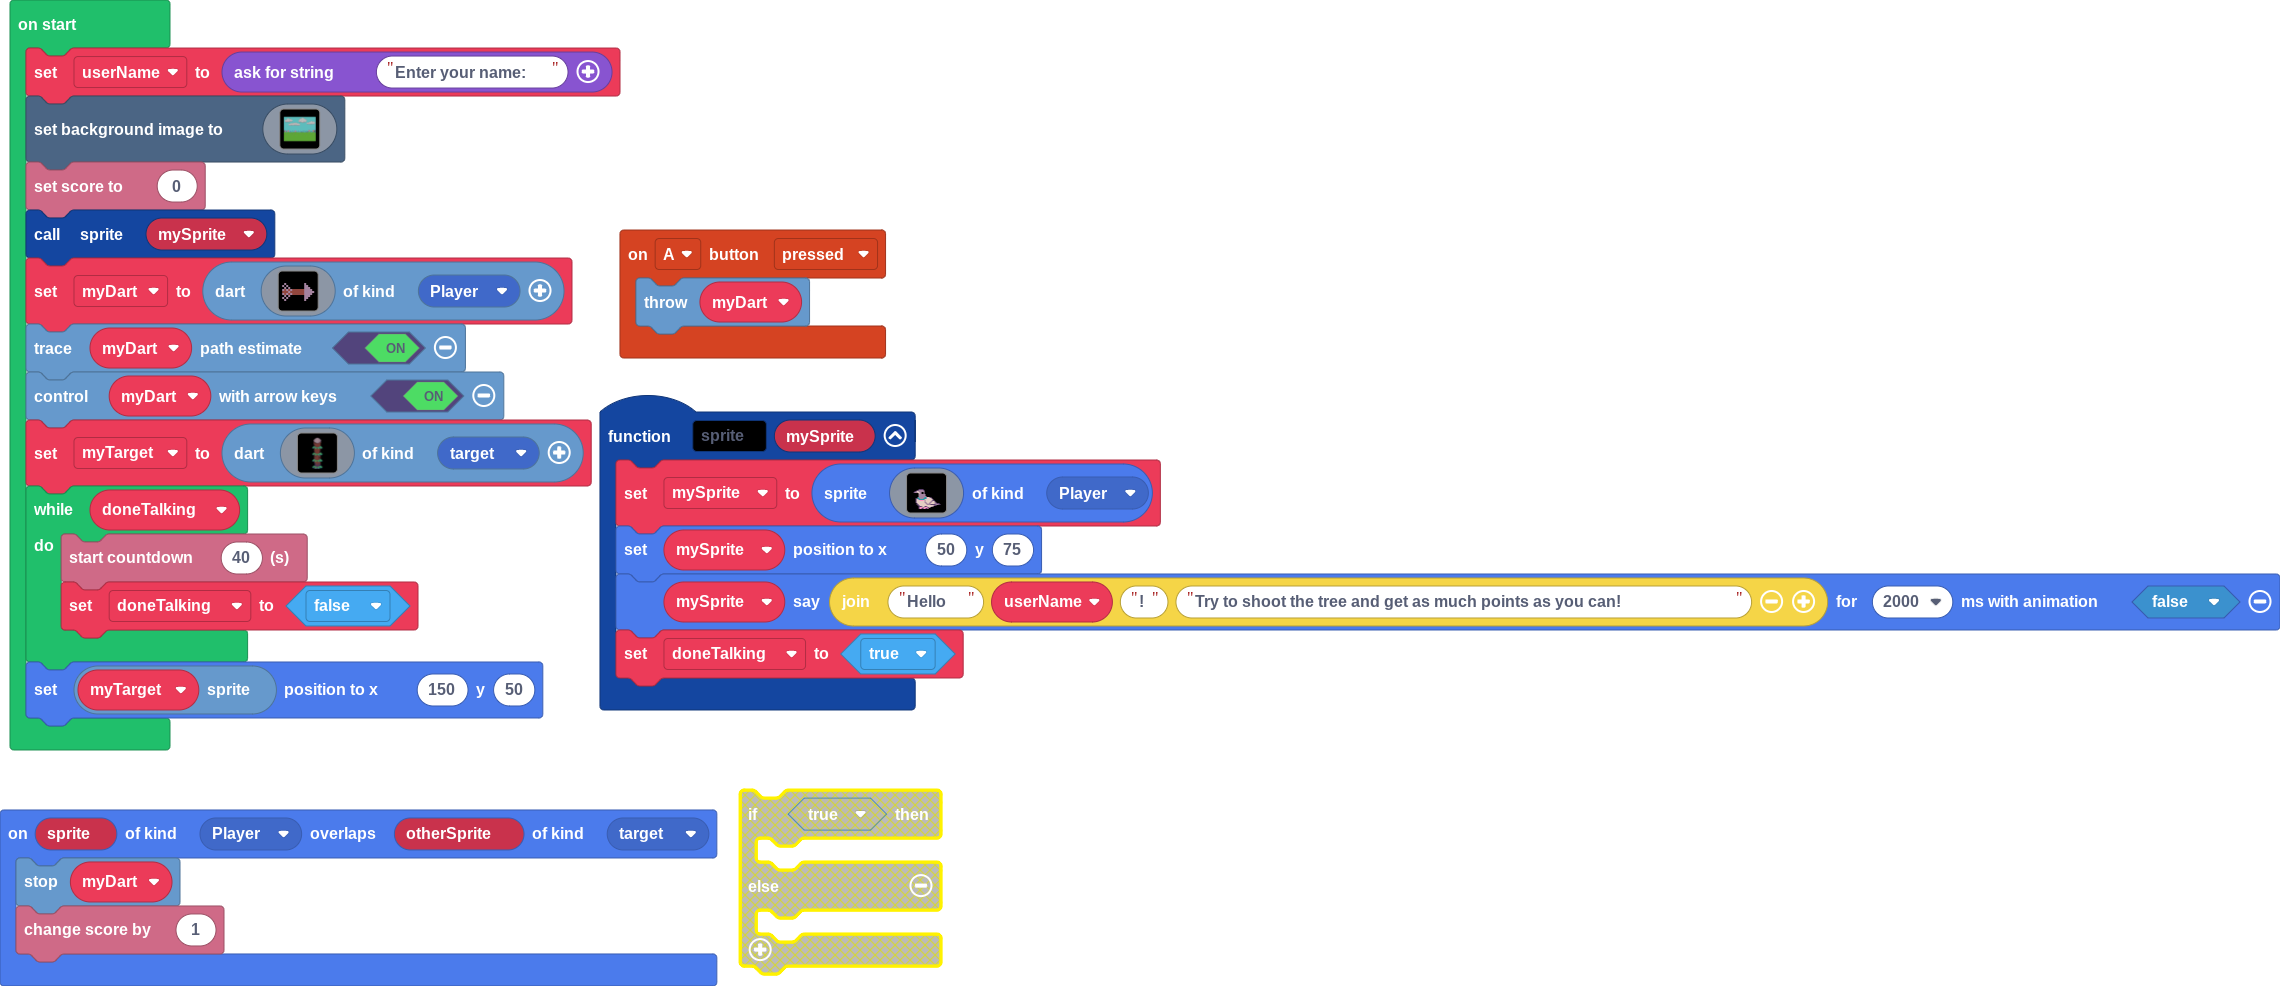
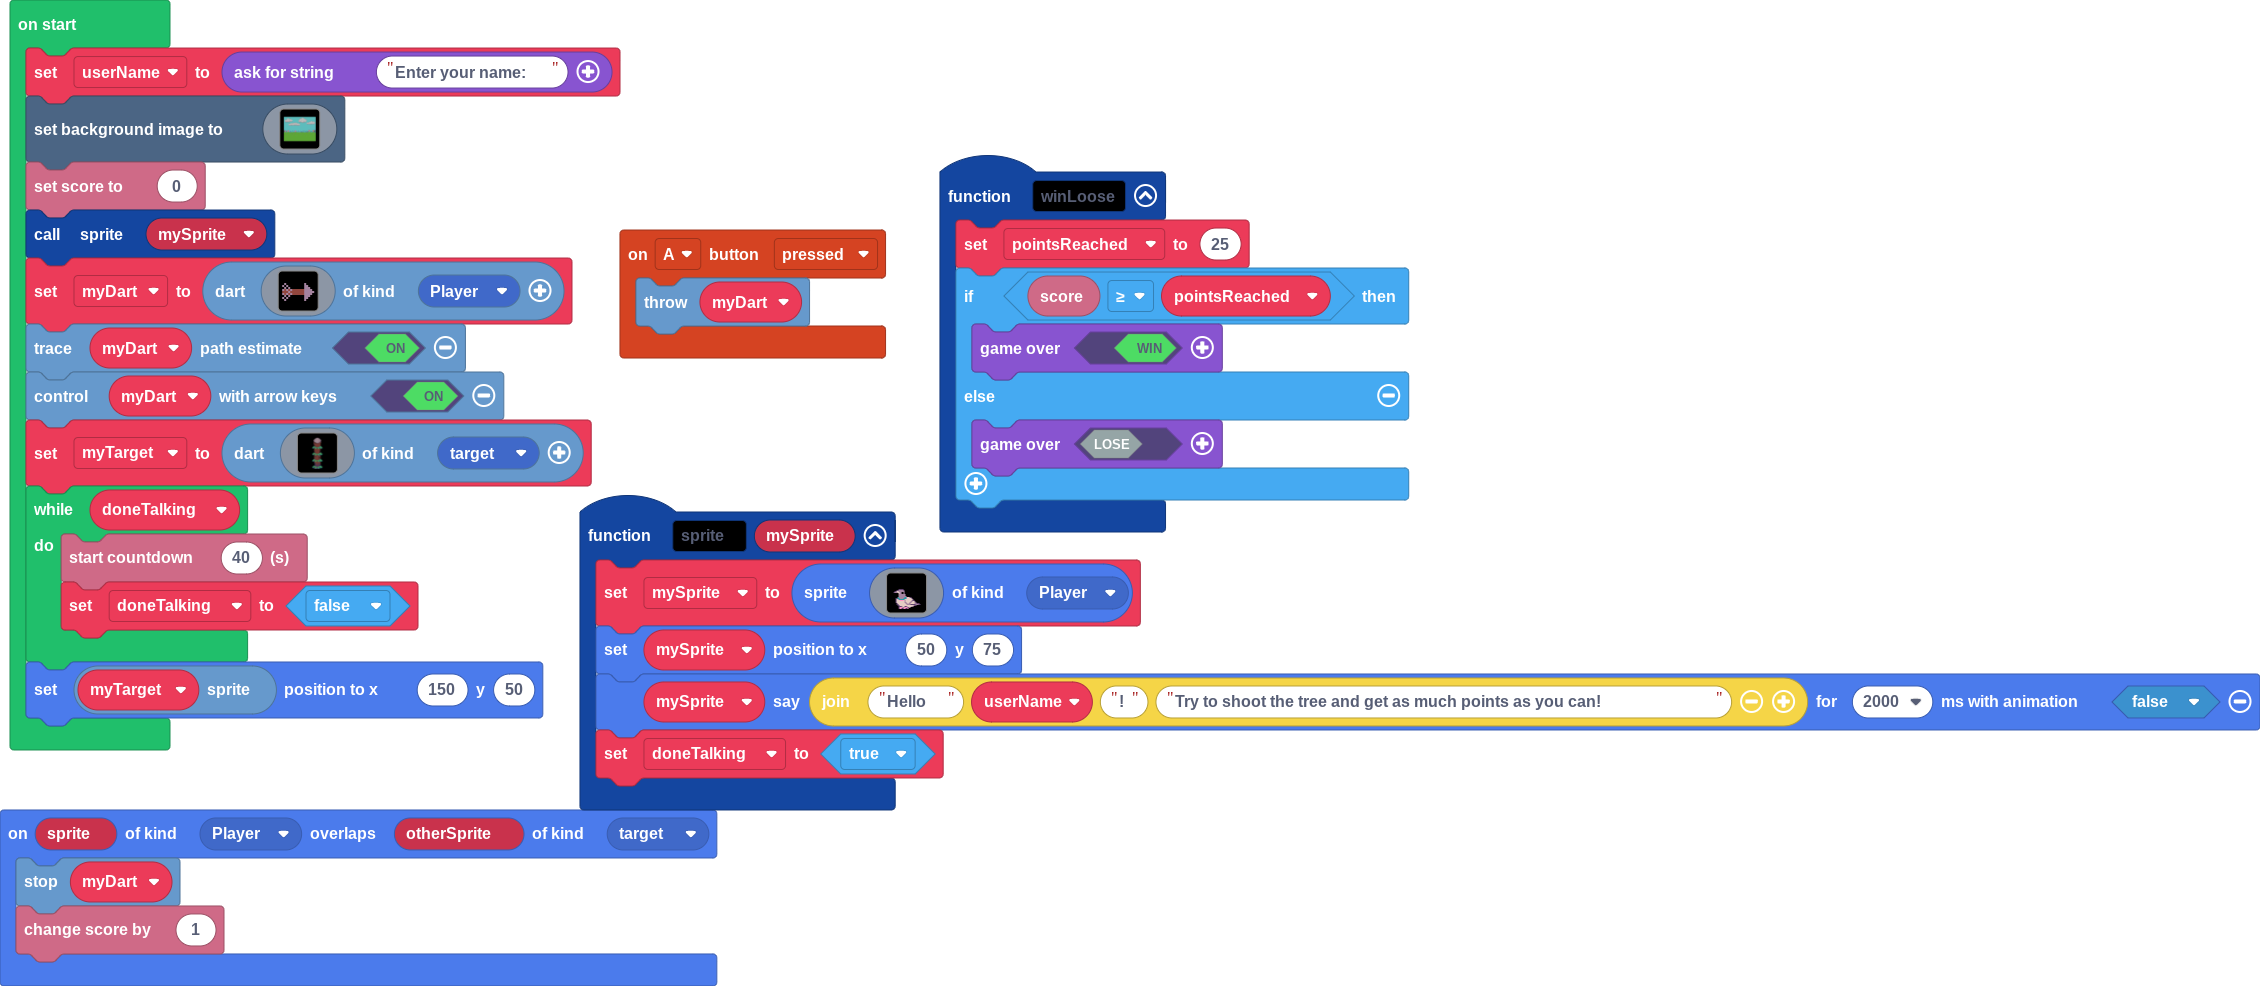
Update main.blocks, main.ts

diff --git a/main.ts b/main.ts
@@ -43,10 +43,19 @@ function sprite (mySprite: Sprite) {
 controller.A.onEvent(ControllerButtonEvent.Pressed, function () {
     myDart.throwDart()
 })
+function winLoose () {
+    pointsReached = 25
+    if (info.score() >= pointsReached) {
+        game.over(true)
+    } else {
+        game.over(false)
+    }
+}
 sprites.onOverlap(SpriteKind.Player, SpriteKind.target, function (sprite2, otherSprite) {
     myDart.stopDart()
     info.changeScoreBy(1)
 })
+let pointsReached = 0
 let doneTalking = false
 let myDart: Dart = null
 let mySprite: Sprite = null
